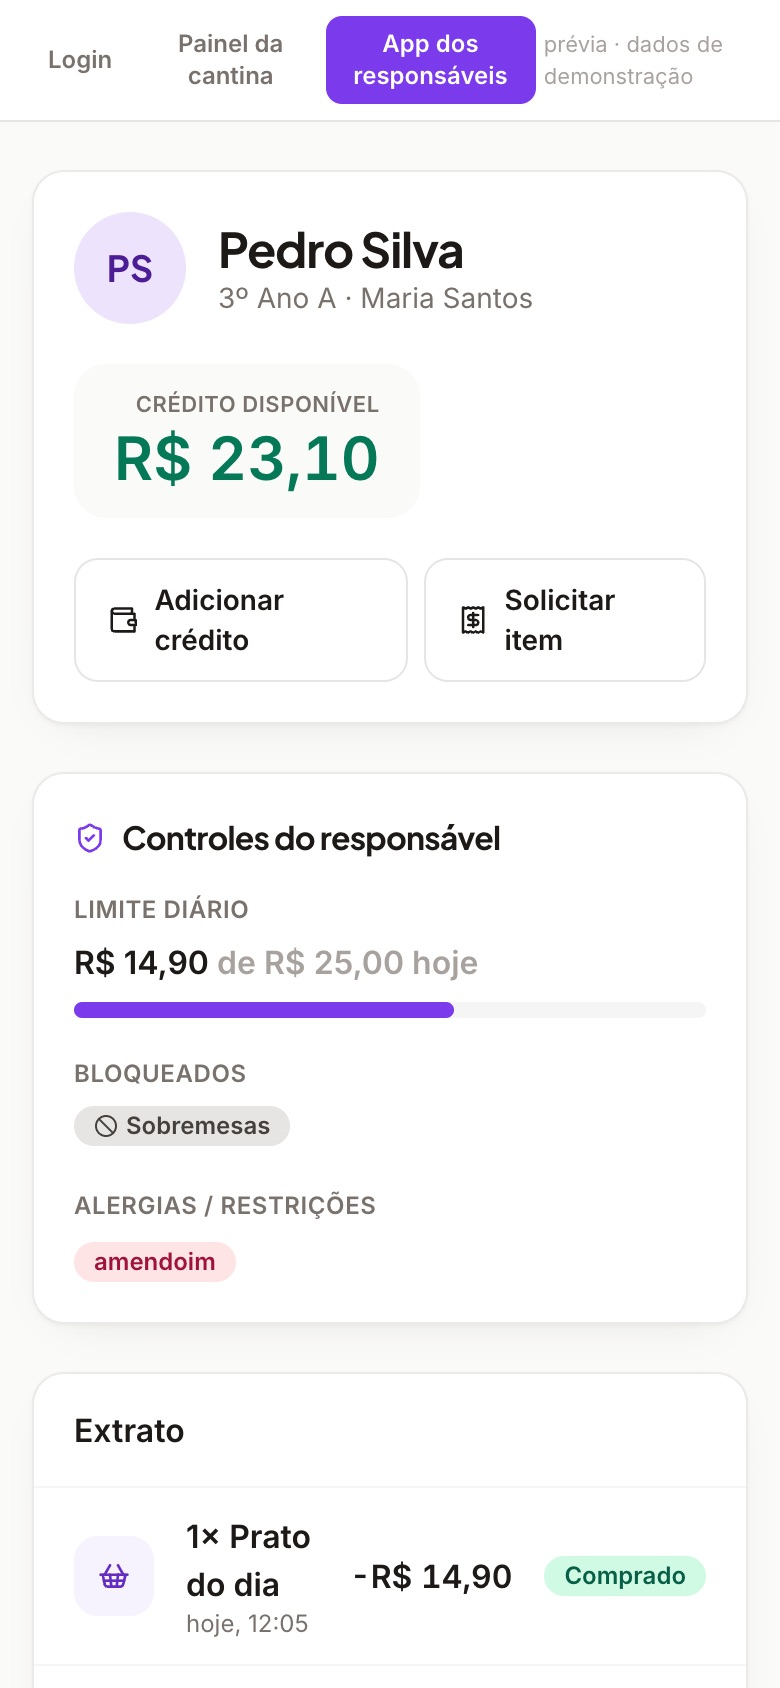
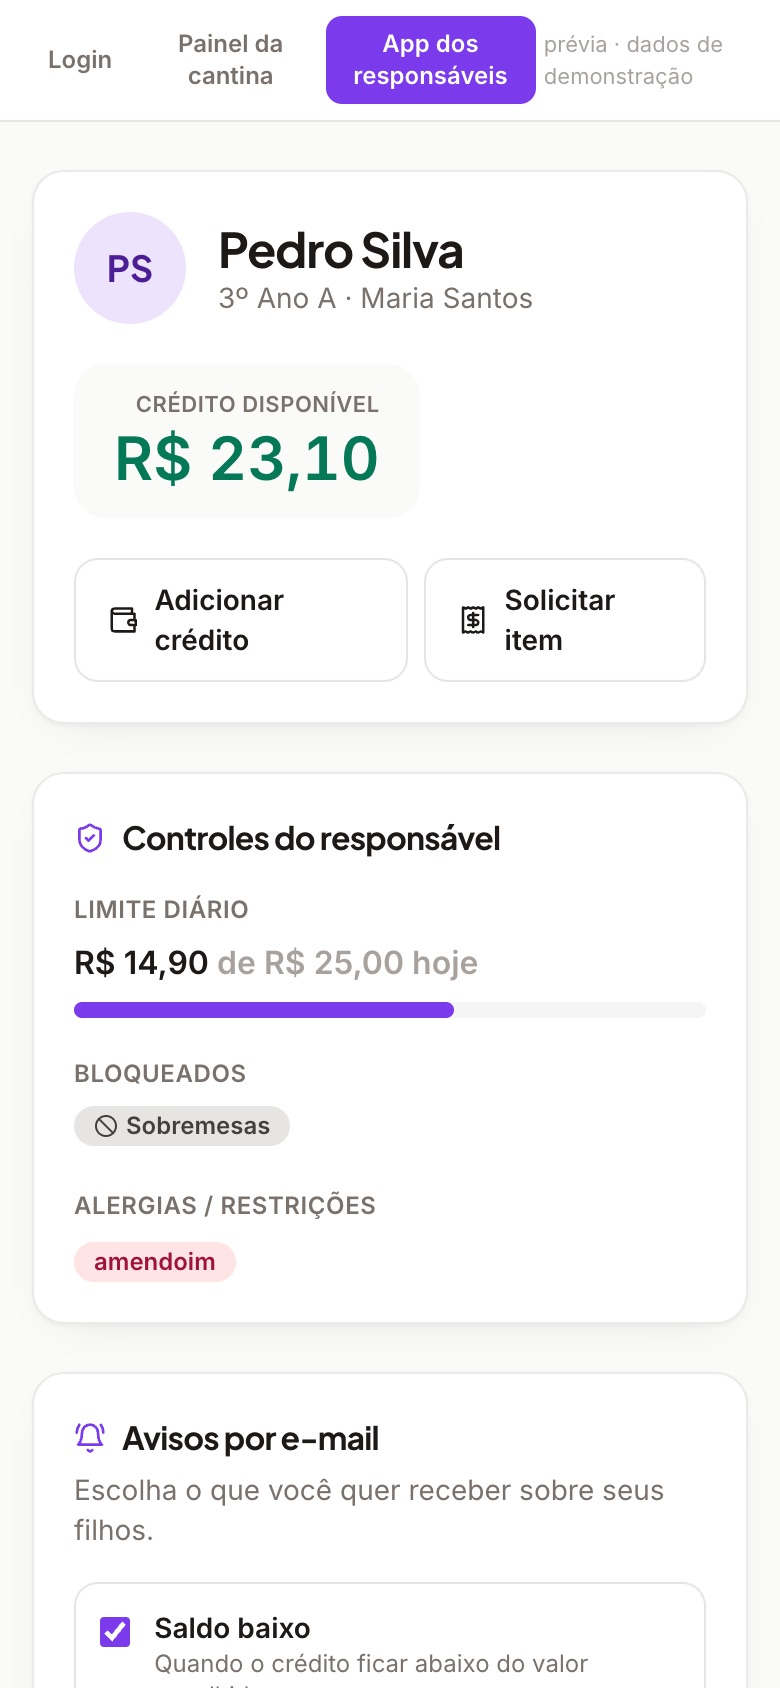
docs: MealMate screenshots with password reset and e-mail alerts

diff --git a/data.js b/data.js
@@ -193,8 +193,8 @@ window.PORTFOLIO = {
       tags: ['Go 1.27', 'net/http', 'DynamoDB', 'SQLite (pure Go)', 'AWS Lambda', 'CloudFront', 'AWS CDK (Go)', 'LocalStack', 'JWT HS256', 'React 18', 'TypeScript', 'Tailwind', 'TanStack Query', 'GitHub Actions'],
       shots: [
         { src: 'assets/projects/mm_preview_painel.jpg', alt: { pt: 'Painel da cantina com a marca do contrato (Colégio Aurora): vendas, solicitações e alunos', en: 'Canteen dashboard in the contract brand (Colégio Aurora): sales, requests and students' } },
-        { src: 'assets/projects/mm_preview_responsavel.jpg', alt: { pt: 'App do responsável: saldo, controles (limite diário, bloqueios, alergias) e extrato', en: 'Guardian app: balance, controls (daily limit, blocked items, allergies) and ledger' } },
-        { src: 'assets/projects/mm_preview_login.jpg', alt: { pt: 'Login whitelabel: nome, cor e textos vêm do template do contrato', en: 'White-label login: name, color and copy come from the contract template' } },
+        { src: 'assets/projects/mm_preview_responsavel.jpg', alt: { pt: 'App do responsável: controles (limite diário, bloqueios, alergias), avisos por e-mail e extrato', en: 'Guardian app: controls (daily limit, blocked items, allergies), e-mail alerts and ledger' } },
+        { src: 'assets/projects/mm_preview_login.jpg', alt: { pt: 'Login whitelabel com recuperação de senha por e-mail: nome, cor e textos vêm do template do contrato', en: 'White-label login with e-mail password reset: name, color and copy come from the contract template' } },
         { src: 'assets/projects/mm_mobile_responsavel.jpg', alt: { pt: 'Controles do responsável no celular', en: 'Guardian controls on mobile' } },
         { src: 'assets/projects/cg_dashboard.jpg', alt: { pt: 'Painel do dia: vendas, solicitações pendentes com aprovar/cancelar, mais vendidos e saldo baixo', en: 'Day dashboard: sales, pending requests with approve/cancel, top sellers and low balances' } },
         { src: 'assets/projects/cg_comanda_apos_compra.jpg', alt: { pt: 'Comanda do aluno com extrato imutável: compras, crédito e solicitação pendente', en: 'Student tab with immutable ledger: purchases, credit and a pending request' } },
@@ -221,6 +221,7 @@ window.PORTFOLIO = {
           'Whitelabel por contrato: template versionado (marca, plano, add-ons, vigência) aplicado por API de provisionamento; entitlements viram 402/423 nas regras e a UI gera a paleta da cor do cliente.',
           'Deploy compartilhado em free tier: Lambda arm64 (zip) + Function URL + CloudFront + DynamoDB provisionado; várias escolas em /c/{slug} na mesma tabela, isoladas por prefixo de chave e chave de sessão própria; saldo gravado com escrita condicional contra gasto duplo.',
           'Mesmas portas para SQLite e DynamoDB, suíte inteira rodando nos dois (LocalStack no CI); painel otimizado de 10,7 para 0,69 RCU/s por escola, medido em teste.',
+          'Avisos por e-mail aos responsáveis (saldo baixo, pedido, compra bloqueada) e recuperação de senha com link assinado de uso único, sem tabela de tokens; cota diária compartilhada por todas as escolas num contador atômico do DynamoDB; domínio próprio por escola resolvido pelo host.',
         ],
         en: [
           'Go 1.27 backend on stdlib + pure-Go SQLite (no CGO): hexagonal layout, ports for repositories/hasher/tokens, embedded migrations, money in integer cents.',
@@ -230,6 +231,7 @@ window.PORTFOLIO = {
           'Contract-driven white-label: versioned template (brand, plan, add-ons, validity) applied through a provisioning API; entitlements become 402/423 in the rules and the UI derives the palette from the customer color.',
           'Free-tier shared deployment: arm64 Lambda (zip) + Function URL + CloudFront + provisioned DynamoDB; many schools under /c/{slug} in one table, isolated by key prefix and per-instance session keys; balances written with conditional writes against double spending.',
           'Same ports for SQLite and DynamoDB, whole suite running on both (LocalStack in CI); dashboard cut from 10.7 to 0.69 RCU/s per school, measured in a test.',
+          'E-mail alerts for guardians (low balance, pre-orders, blocked sales) and password reset with a signed single-use link, no token table; a daily e-mail budget shared by every school in an atomic DynamoDB counter; per-school custom domains resolved from the host.',
         ],
       },
     },
